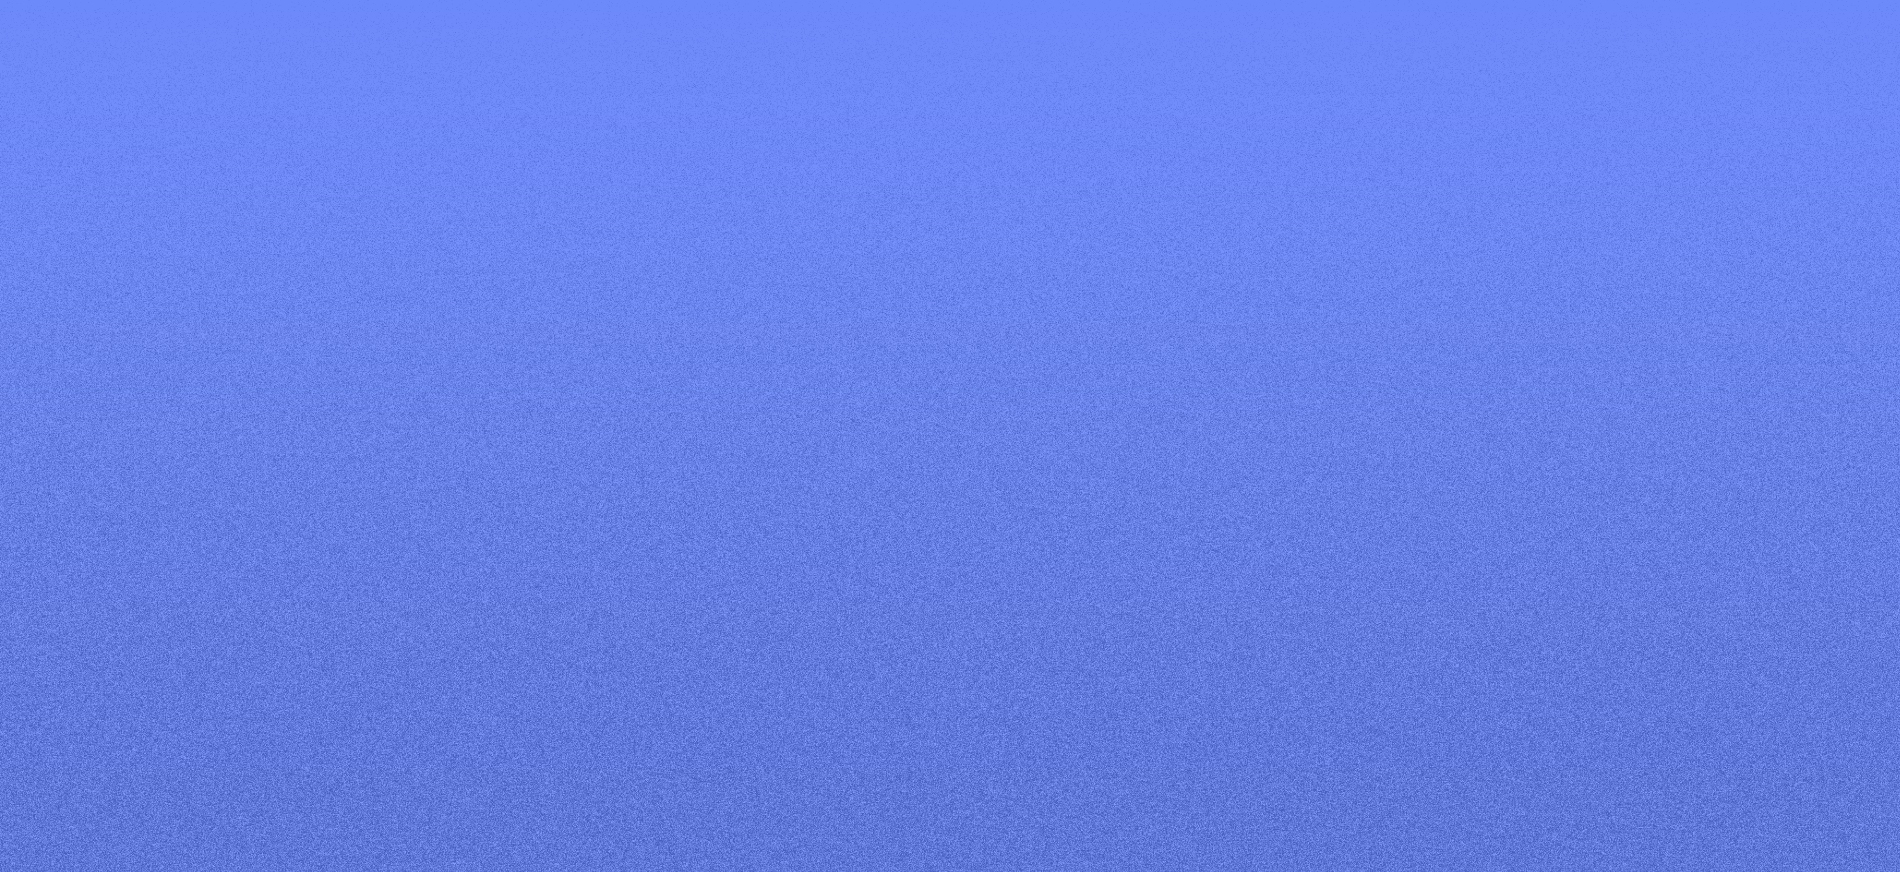
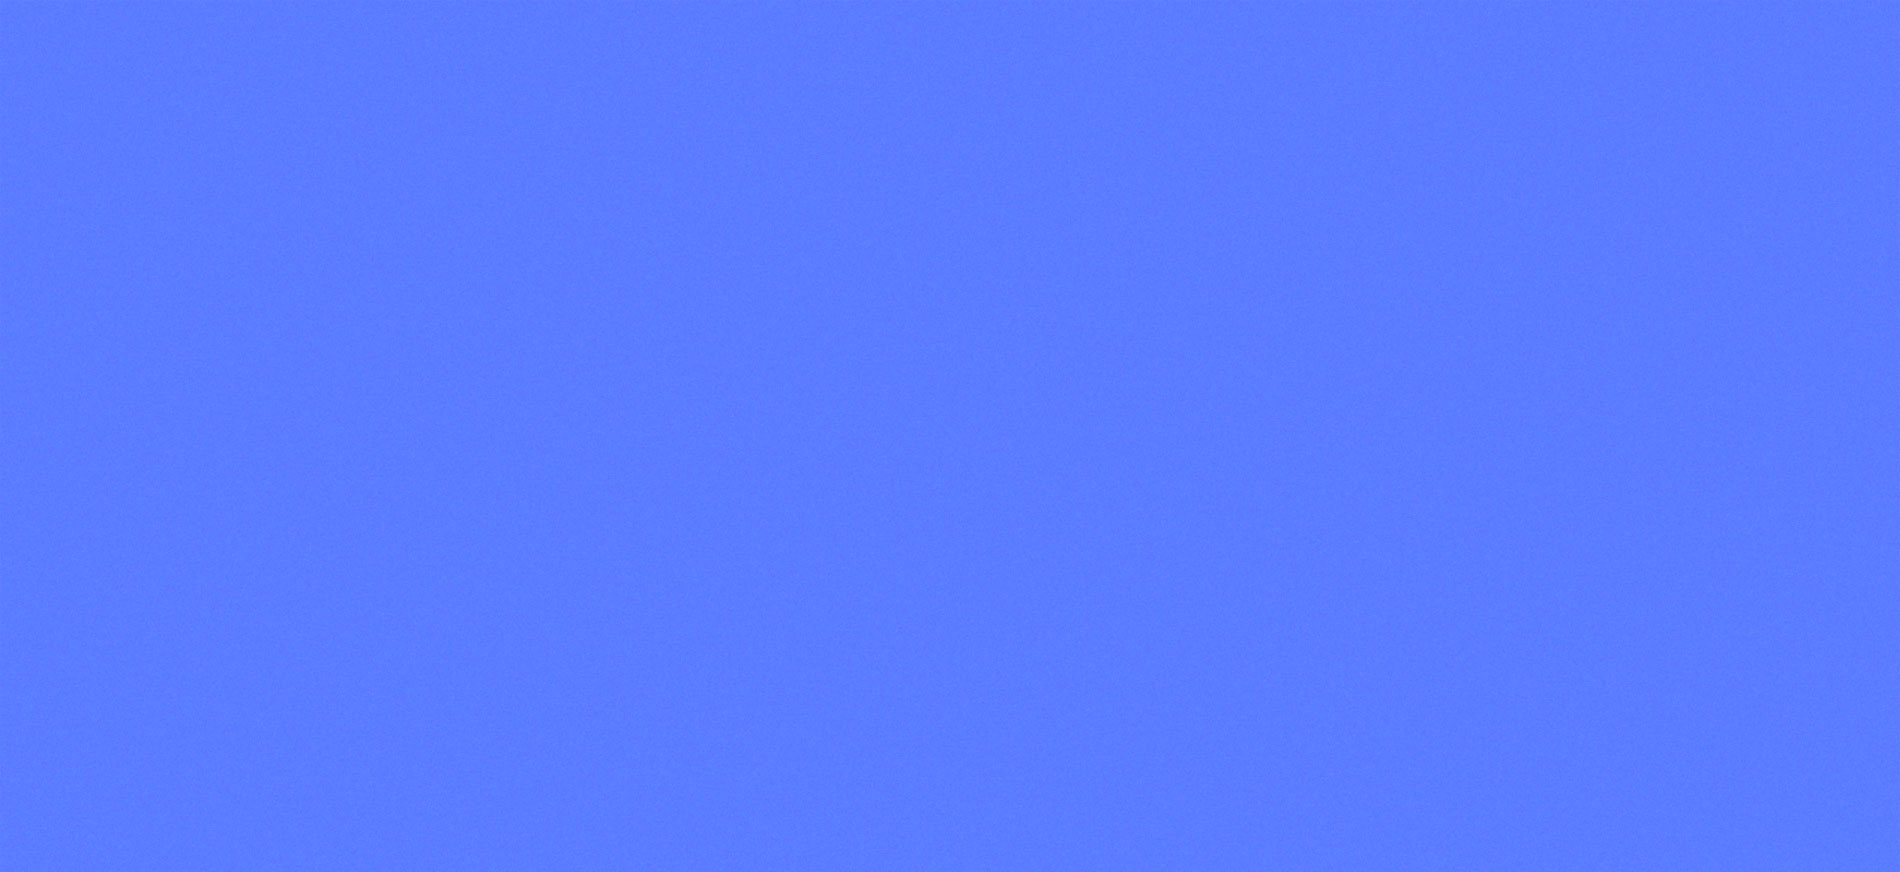
Site updated: 2018-12-22 20:41:48

diff --git a/archives/2018/11/index.html b/archives/2018/11/index.html
@@ -137,7 +137,7 @@
 <!--
   Set your background image for this header in the theme's configuration: index_cover
 -->
-<header class="intro-header" style="background-image: url('/img/cover01.jpg')">
+<header class="intro-header" style="background-image: url('/img/cover03.jpg')">
   <div class="container">
     <div class="row">
       <div class="col-lg-8 col-lg-offset-2 col-md-10 col-md-offset-1">

diff --git a/archives/2018/index.html b/archives/2018/index.html
@@ -137,7 +137,7 @@
 <!--
   Set your background image for this header in the theme's configuration: index_cover
 -->
-<header class="intro-header" style="background-image: url('/img/cover01.jpg')">
+<header class="intro-header" style="background-image: url('/img/cover03.jpg')">
   <div class="container">
     <div class="row">
       <div class="col-lg-8 col-lg-offset-2 col-md-10 col-md-offset-1">

diff --git a/archives/index.html b/archives/index.html
@@ -137,7 +137,7 @@
 <!--
   Set your background image for this header in the theme's configuration: index_cover
 -->
-<header class="intro-header" style="background-image: url('/img/cover01.jpg')">
+<header class="intro-header" style="background-image: url('/img/cover03.jpg')">
   <div class="container">
     <div class="row">
       <div class="col-lg-8 col-lg-offset-2 col-md-10 col-md-offset-1">

diff --git a/index.html b/index.html
@@ -141,7 +141,7 @@
       <div class="col-lg-8 col-lg-offset-2 col-md-10 col-md-offset-1">
         <div class="site-heading">
           <h1>Blog</h1>
-          <span class="subheading"></span>
+          <span class="subheading">공부하는 블로그</span>
         </div>
       </div>
     </div>
